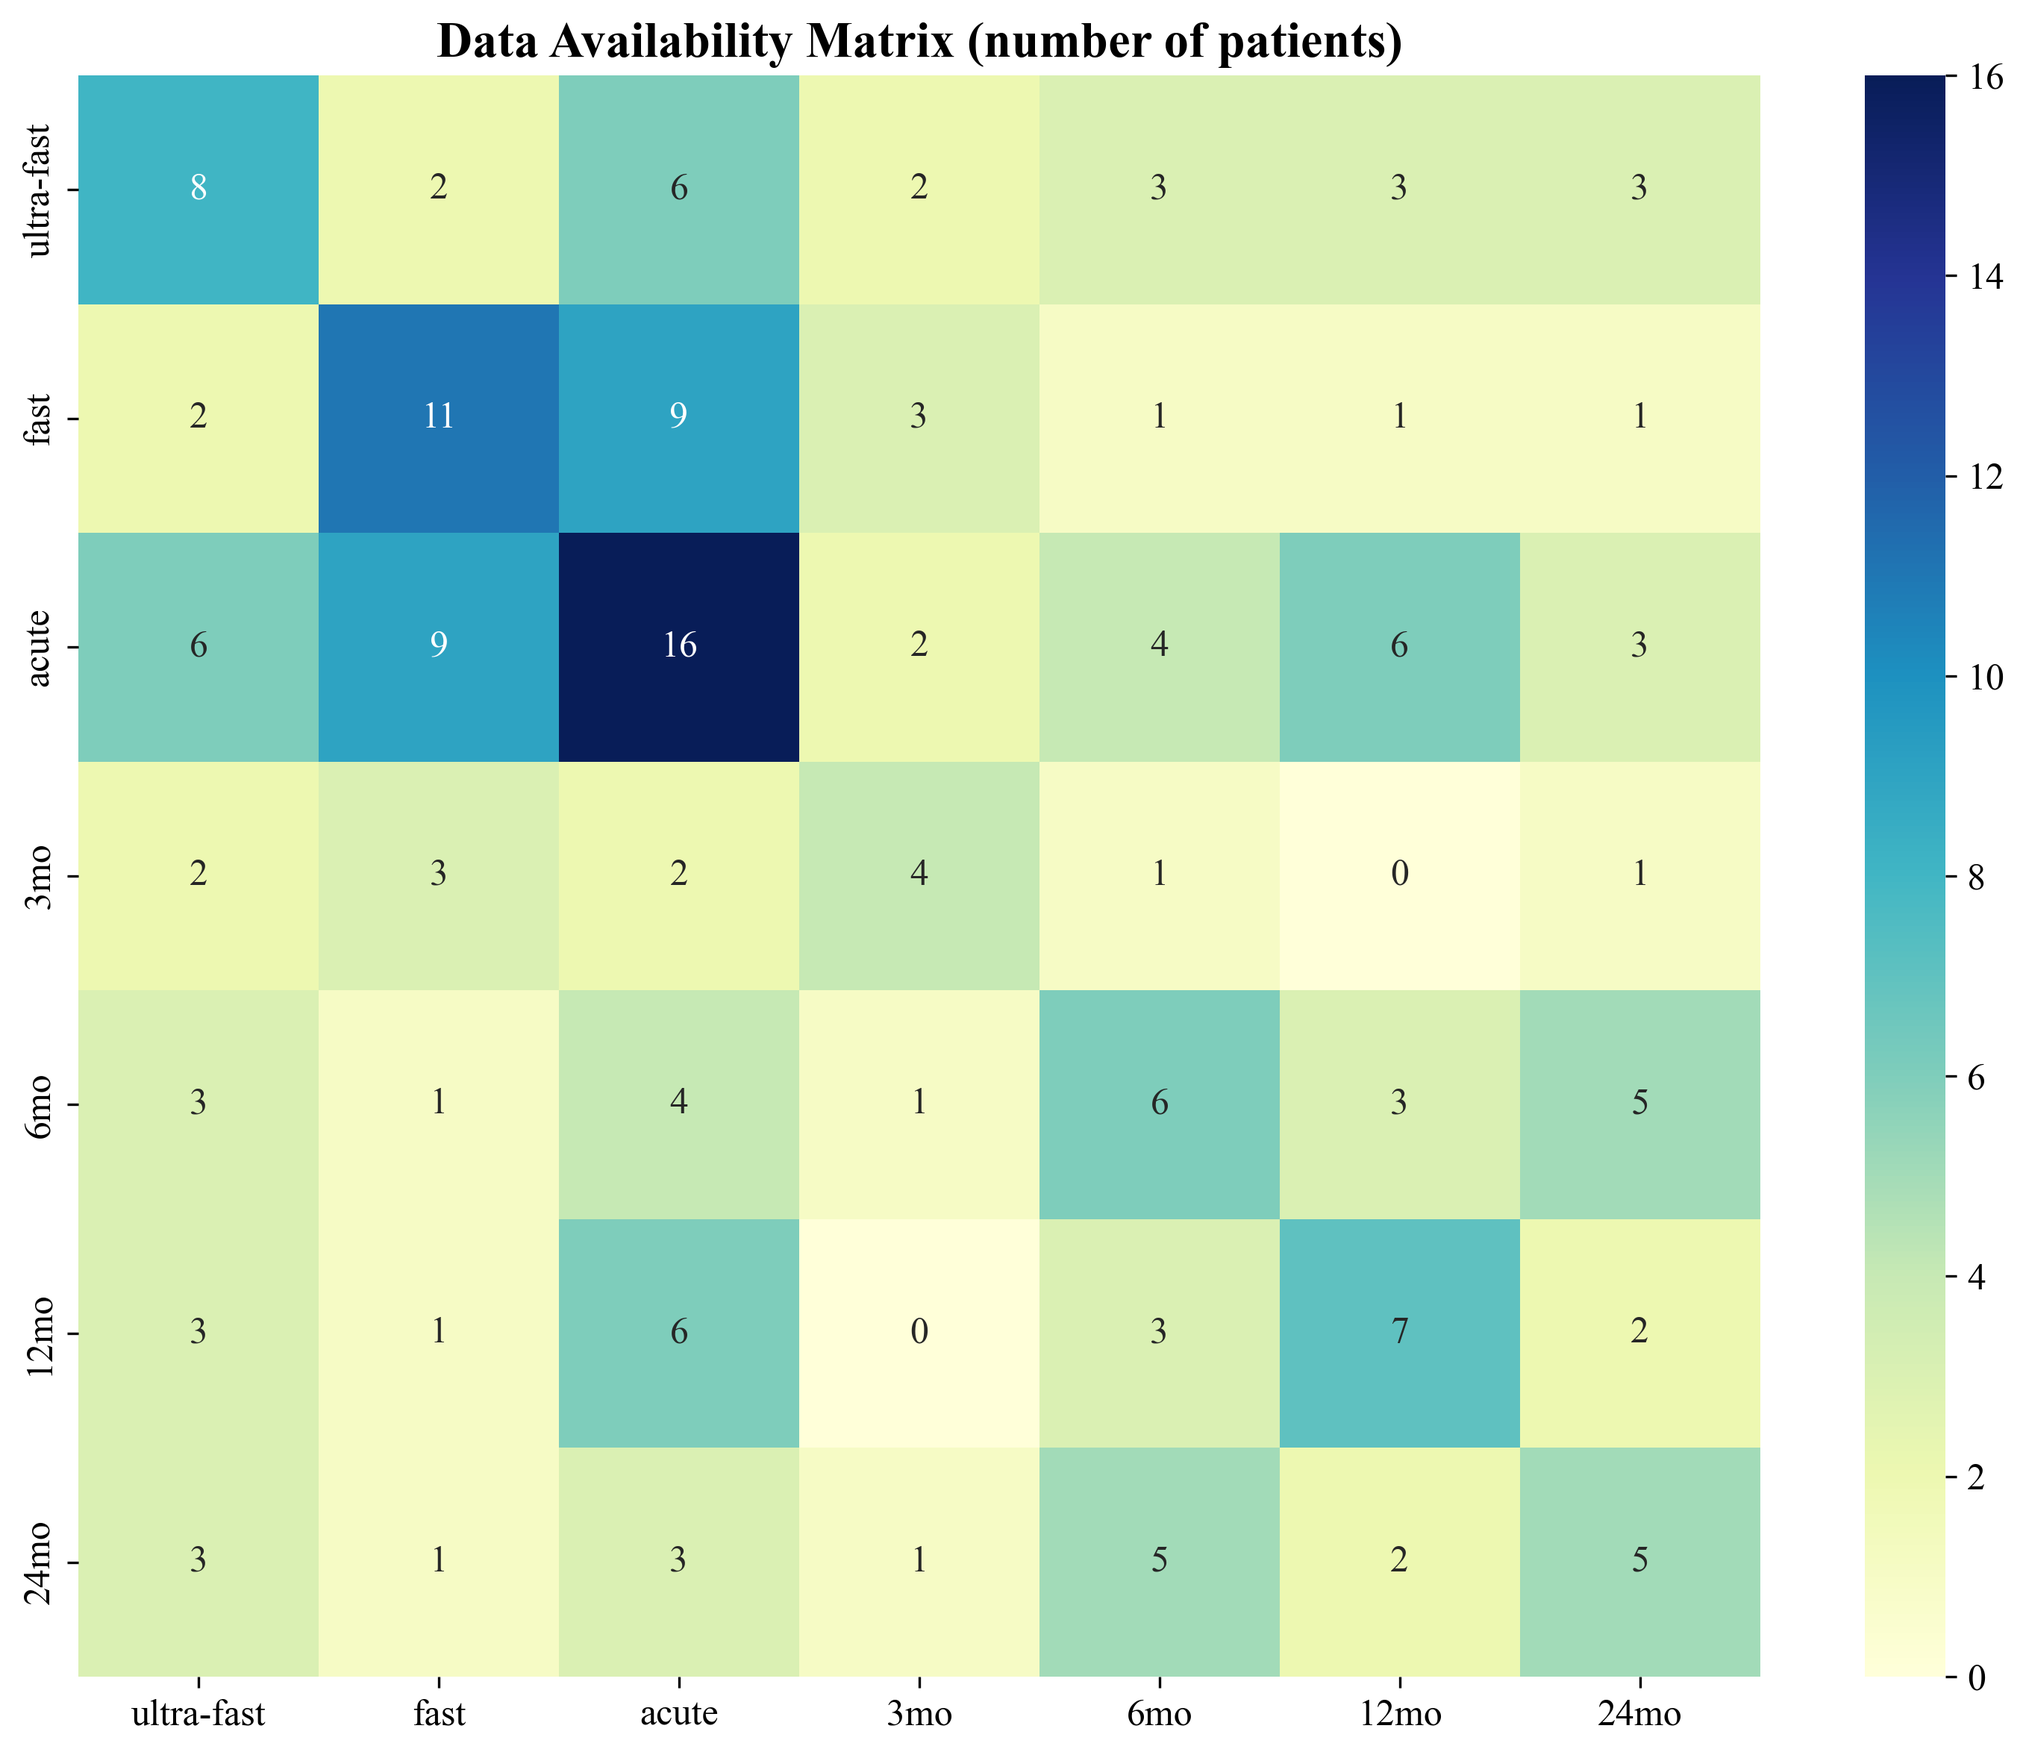
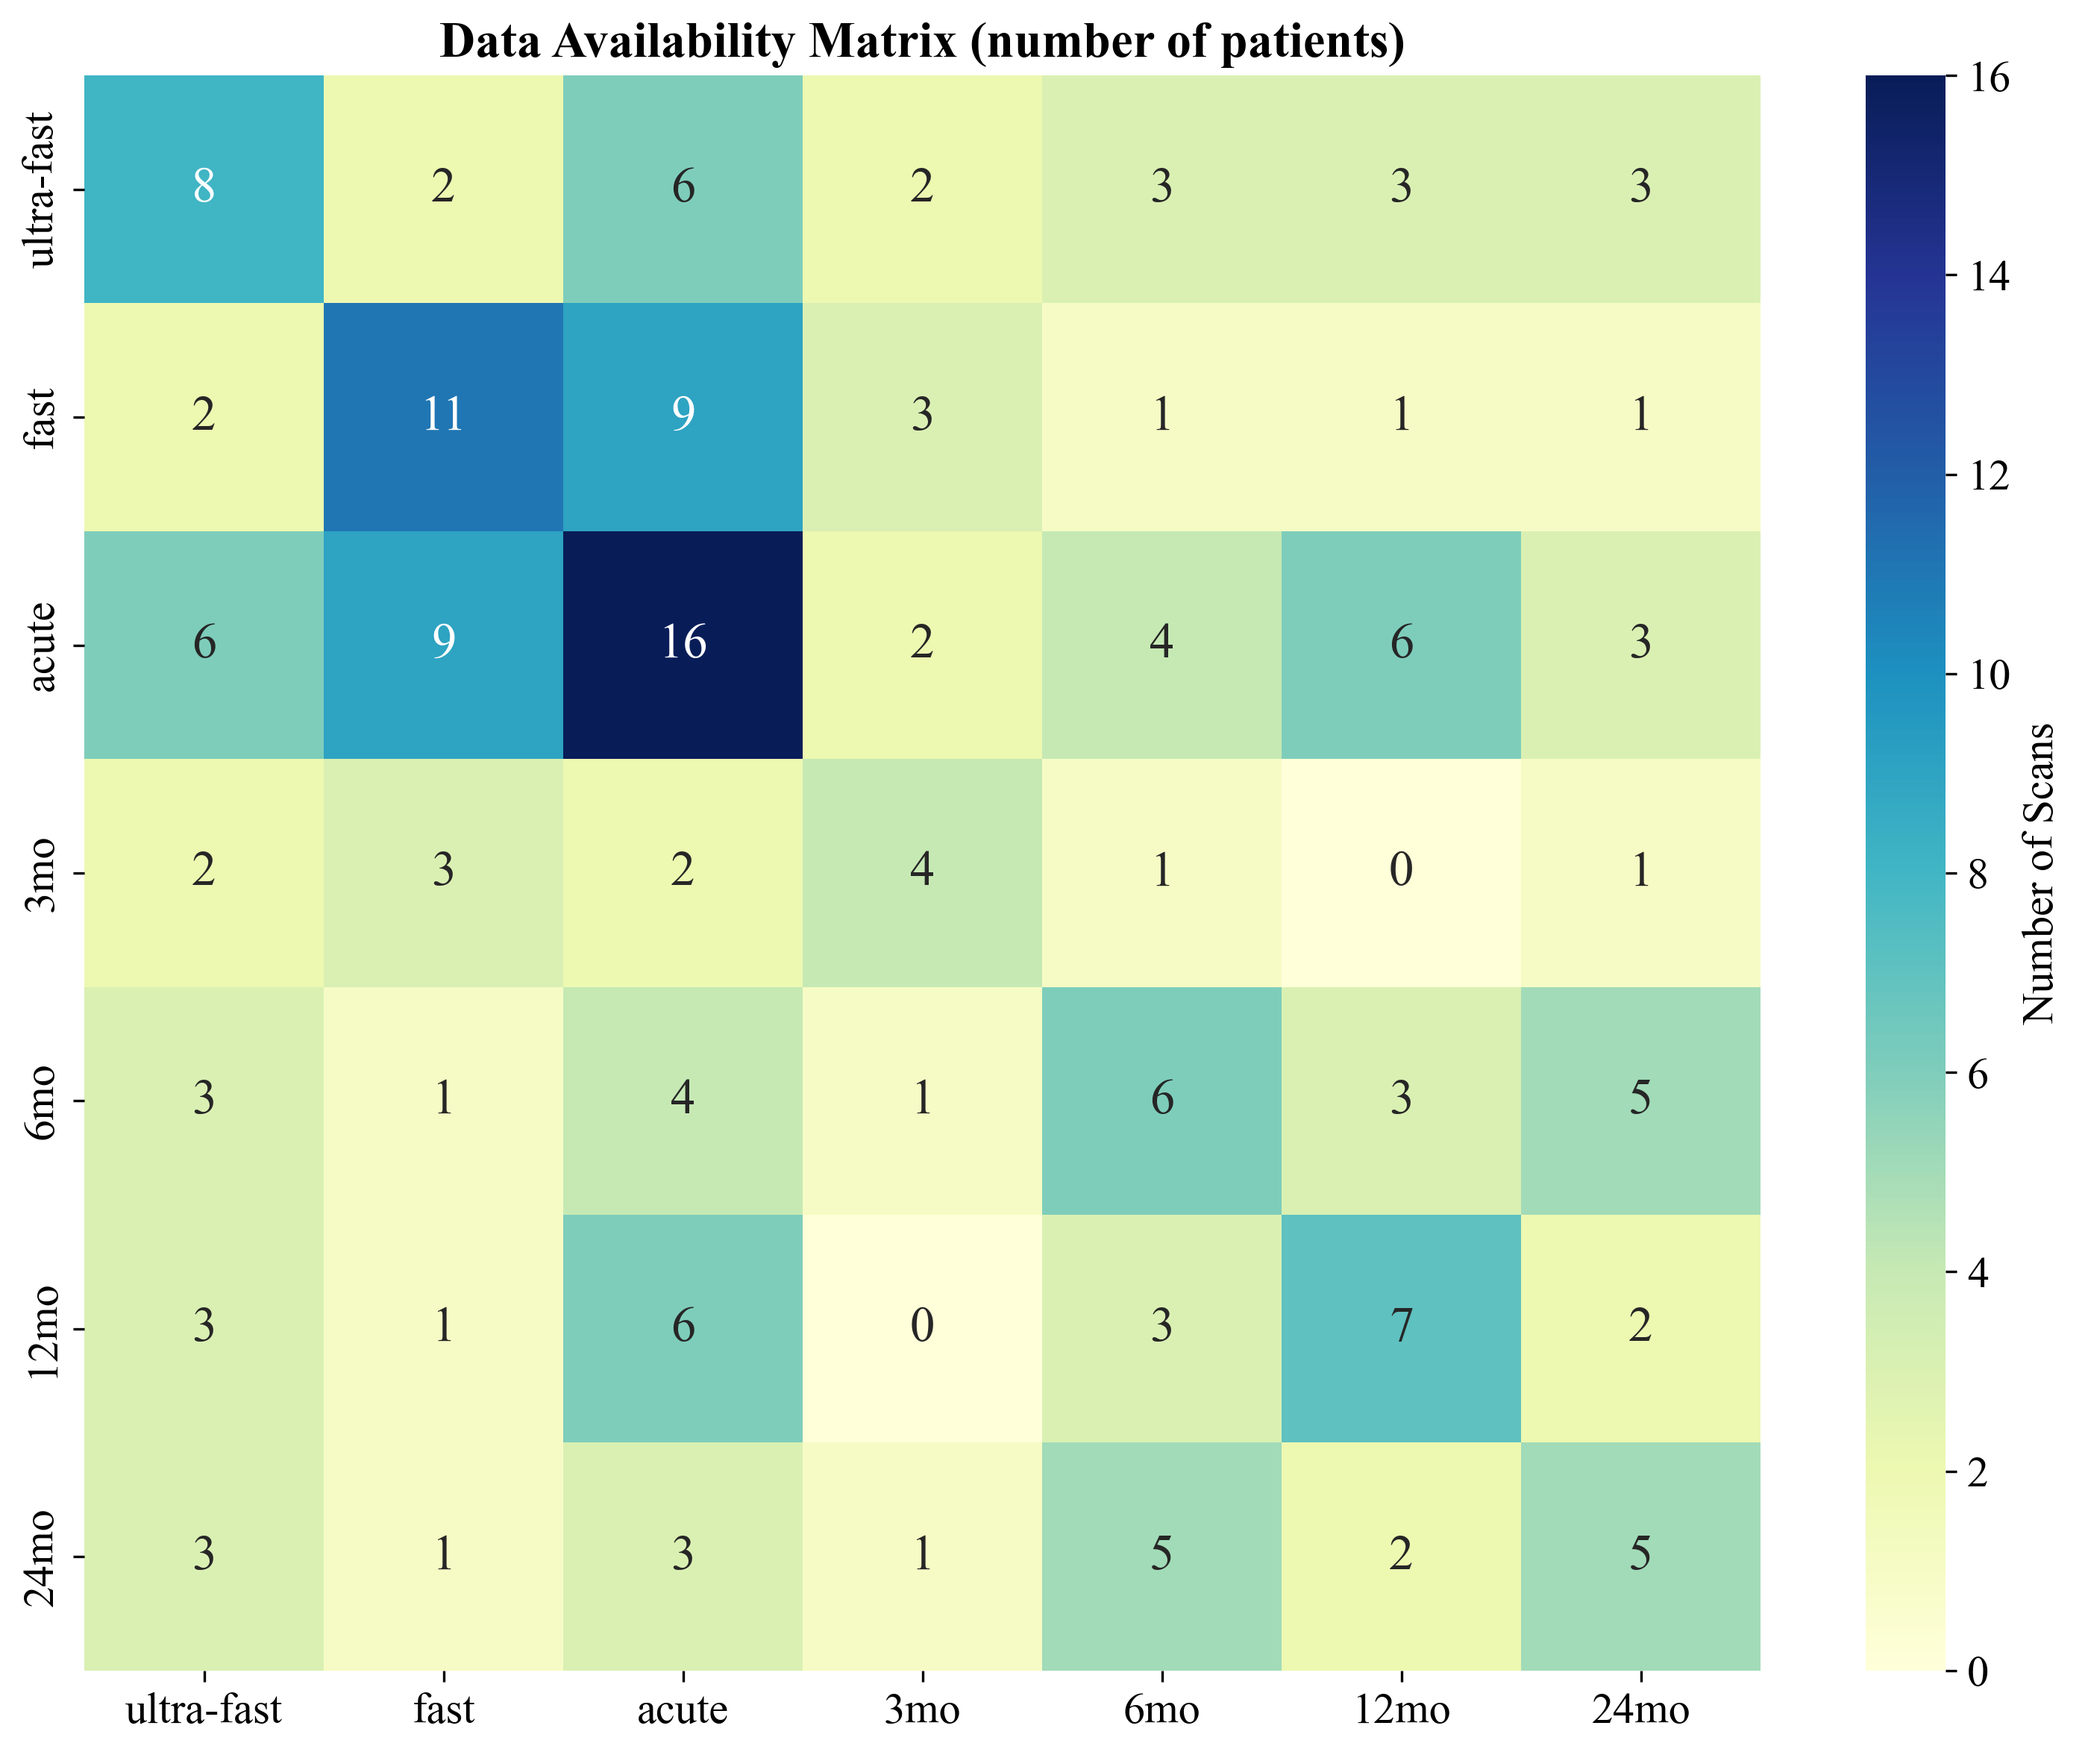
plot changes (bigger font, tidier stats edits)

diff --git a/Image_Processing_Scripts/stats_main.py b/Image_Processing_Scripts/stats_main.py
@@ -542,7 +542,16 @@ def data_availability_matrix(data, timepoints, filename='data_availability.png')
 
     # Visualize the data availability
     plt.figure(figsize=(10, 8))
-    sns.heatmap(availability_matrix, annot=True, cmap="YlGnBu", fmt='g')
+    heatmap=sns.heatmap(availability_matrix, annot=True, 
+                vmin=0, vmax=16,
+                cmap="YlGnBu", fmt='g', 
+                annot_kws={"size": 16},  # Annotation font size)
+                cbar_kws={"label": "Number of Scans"}) # Add colorbar label
+    plt.xticks(fontsize=14)
+    plt.yticks(fontsize=14)
+    cbar = heatmap.collections[0].colorbar
+    cbar.ax.tick_params(labelsize=14)
+
     plt.title('Data Availability Matrix (number of patients)')
     plt.grid(False)
     plt.tight_layout()
@@ -1115,16 +1124,19 @@ def emmeans_significance_matrix(py_pairs):
     mask = np.isnan(sig_df.values)
 
     return sig_df, mask
+
+
 def plot_emmeans_sig_mat(sig_df, mask):
     # Plot heatmap
     ordered_timepoints= ['ultra-fast', 'fast', 'acute', 'chronic']
-    plt.figure(figsize=(10, 10))
+    plt.figure(figsize=(10, 8))
     cmap = sns.diverging_palette(240, 10, as_cmap=True)
 
     # Create heatmap
     heatmap = sns.heatmap(
         sig_df,
         annot=True,  # Show numbers in cells
+        annot_kws={"size": 16},  # Annotation font size
         cmap=cmap,   # Color map
         mask=mask,   # Mask diagonal values
         vmin=0, vmax=0.5,  # Set color scale range
@@ -1132,8 +1144,17 @@ def plot_emmeans_sig_mat(sig_df, mask):
         fmt='.4f',   # Format as floating point with 4 decimals
         linewidths=0,  # Remove lines between cells
         linecolor='none',  # Ensure no line color
-        yticklabels=ordered_timepoints  # Reverse y-axis labels
+        yticklabels=ordered_timepoints,  # Reverse y-axis labels
+        cbar_kws={"label": "p-value"} # Add colorbar label
     )
+
+    # Make x and y axis labels bigger
+    plt.xticks(fontsize=14)
+    plt.yticks(fontsize=14)
+
+    # Make colorbar tick labels bigger
+    cbar = heatmap.collections[0].colorbar
+    cbar.ax.tick_params(labelsize=14)
 
     # Add significance markers
     for i in range(4):  # rows
@@ -1150,16 +1171,16 @@ def plot_emmeans_sig_mat(sig_df, mask):
                     )
                 elif sig_df.iloc[i, j] < 0.01:
                     plt.text(
-                        j + 0.625, i + 0.45, "**", ha='left', va='center', fontsize=10
+                        j + 0.65, i + 0.45, "**", ha='left', va='center', fontsize=10
                     )
                 elif sig_df.iloc[i, j] < 0.05:
                     plt.text(
-                        j + 0.625, i + 0.45, "*", ha='left', va='center', fontsize=10
+                        j + 0.65, i + 0.45, "*", ha='left', va='center', fontsize=10
                     )
-                elif sig_df.iloc[i, j] < 0.1:
-                    plt.text(
-                        j + 0.625, i + 0.45, "†", ha='left', va='center', fontsize=10
-                    )
+                # elif sig_df.iloc[i, j] < 0.1:
+                #     plt.text(
+                #         j + 0.625, i + 0.45, "†", ha='left', va='center', fontsize=10
+                #     )
 
     plt.title('Pairwise Comparison p-values from Mixed Effects Model (emmeans)')
     plt.grid(False)
@@ -1169,8 +1190,8 @@ def plot_emmeans_sig_mat(sig_df, mask):
     plt.subplots_adjust(bottom=0.075)
 
     # Add legend for significance levels
-    plt.figtext(0.25, 0.01, "Significance levels: ** p<0.01, * p<0.05, † p<0.1",
-            ha='left', fontsize=12, style='italic') #*** p<0.001, 
+    # plt.figtext(0.35, 0.01, "Significance levels: ** p<0.01, * p<0.05",#, † p<0.1",
+            # ha='left', fontsize=12, style='italic') #*** p<0.001, 
 
     plt.savefig('significance_matrix_mixed_effects_v2.png', dpi=300, bbox_inches='tight')
     plt.savefig('../Thesis/phd-thesis-template-2.4/Chapter5/Figs/significance_matrix_mixed_effects_v2.png', dpi=600, bbox_inches='tight')
@@ -1753,7 +1774,7 @@ if __name__ == '__main__':
 
     # pairwise test visualisations:
     #THIS ONE ONLY:
-    # data_availability_matrix(pivoted_data, timepoints=['ultra-fast', 'fast', 'acute', '3mo', '6mo', '12mo', '24mo'], filename='data_availability.png')
+    data_availability_matrix(pivoted_data, timepoints=['ultra-fast', 'fast', 'acute', '3mo', '6mo', '12mo', '24mo'], filename='data_availability.png')
     
     #significance_matrix_ttest(valid_results, timepoints=['ultra-fast', 'fast', 'acute', '3mo', '6mo', '12mo', '24mo'], filename='significance_matrix.png')
     #significance_matrix_wilcoxon(valid_wilcoxon_results, timepoints=['ultra-fast', 'fast', 'acute', '3mo', '6mo', '12mo', '24mo'], filename='significance_matrix_wilcoxon.png')
@@ -1761,12 +1782,12 @@ if __name__ == '__main__':
 
     # Mixed effect model visualisations:
     # THIS ONE:
-    # data_availability_matrix(binned_df_pivot, order, filename='data_availability_matrix_binned.png')
+    data_availability_matrix(binned_df_pivot, order, filename='data_availability_matrix_binned.png')
 
     # Plot the significance matrix
     # THIS ONE: (2 LINES)
-    # sig_df, mask = emmeans_significance_matrix(py_pairs)
-    # plot_emmeans_sig_mat(sig_df, mask)  
+    sig_df, mask = emmeans_significance_matrix(py_pairs)
+    plot_emmeans_sig_mat(sig_df, mask)  
 
-    mixed_effect_boxplot(new_df, result, timepoints=['ultra-fast', 'fast', 'acute', '3mo', '6mo', '12mo', '24mo'], chronic_timepoints=['3mo', '6mo', '12mo', '24mo'])
+    # mixed_effect_boxplot(new_df, result, timepoints=['ultra-fast', 'fast', 'acute', '3mo', '6mo', '12mo', '24mo'], chronic_timepoints=['3mo', '6mo', '12mo', '24mo'])
    
